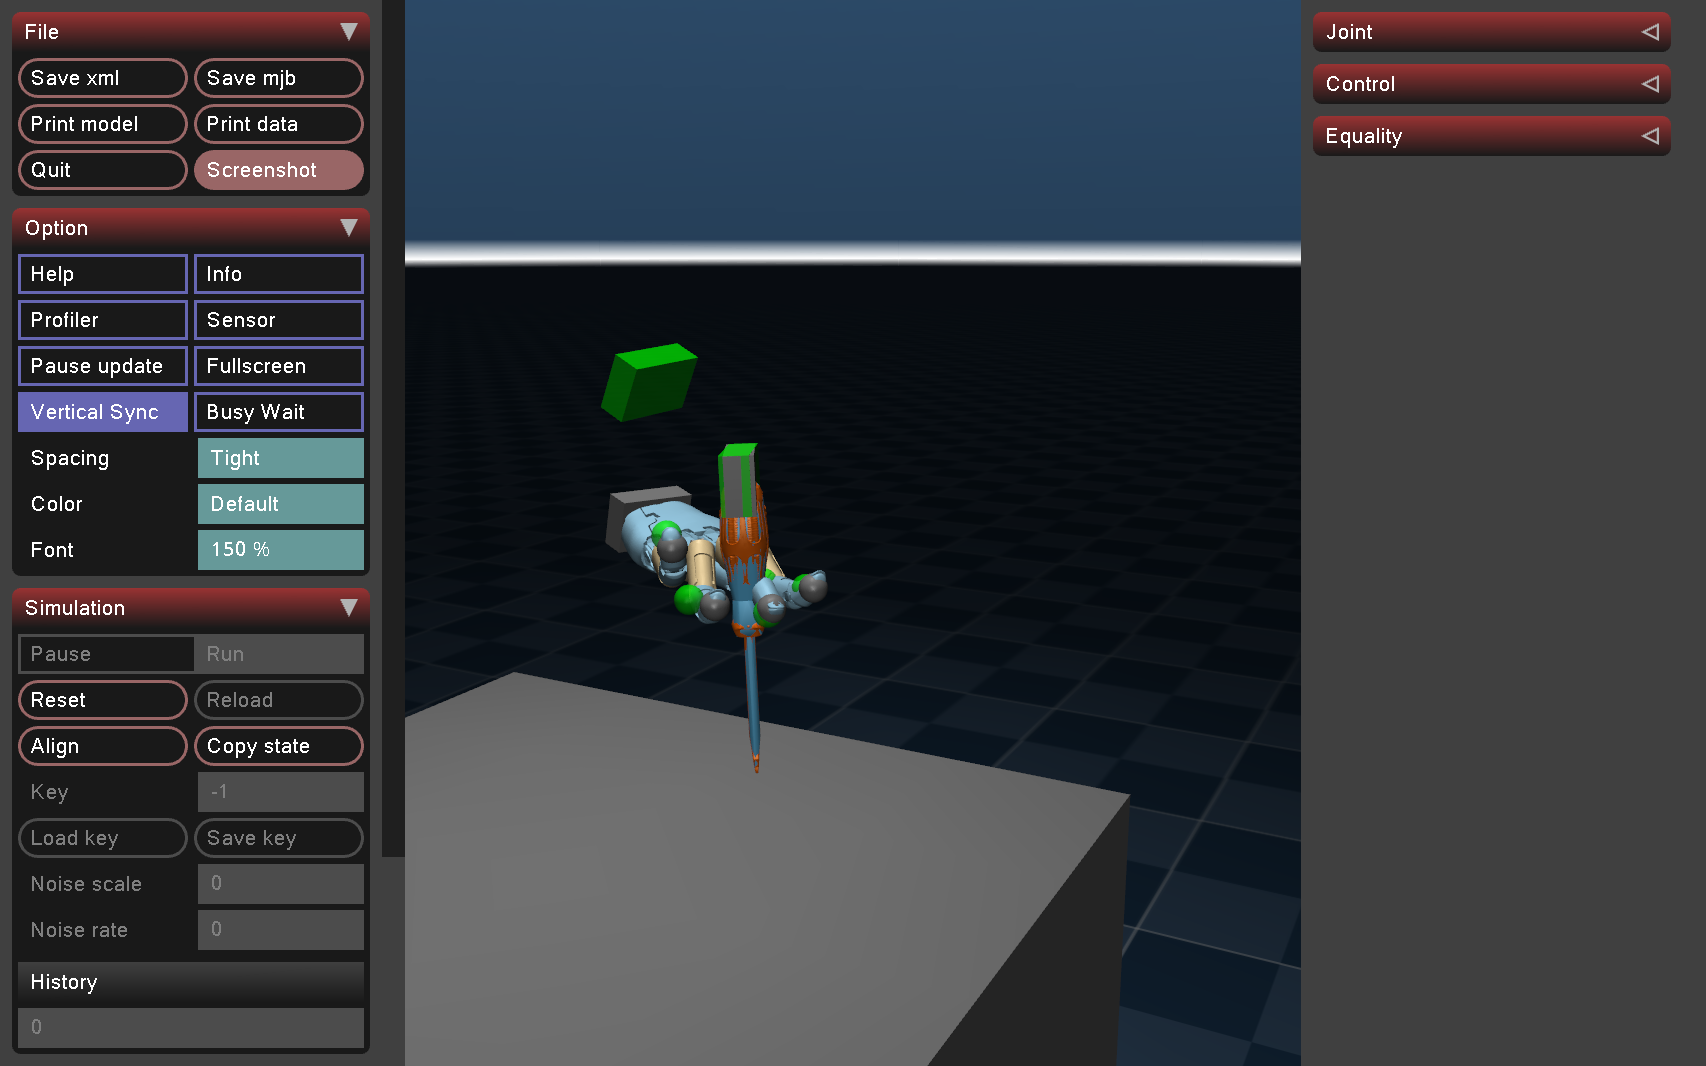
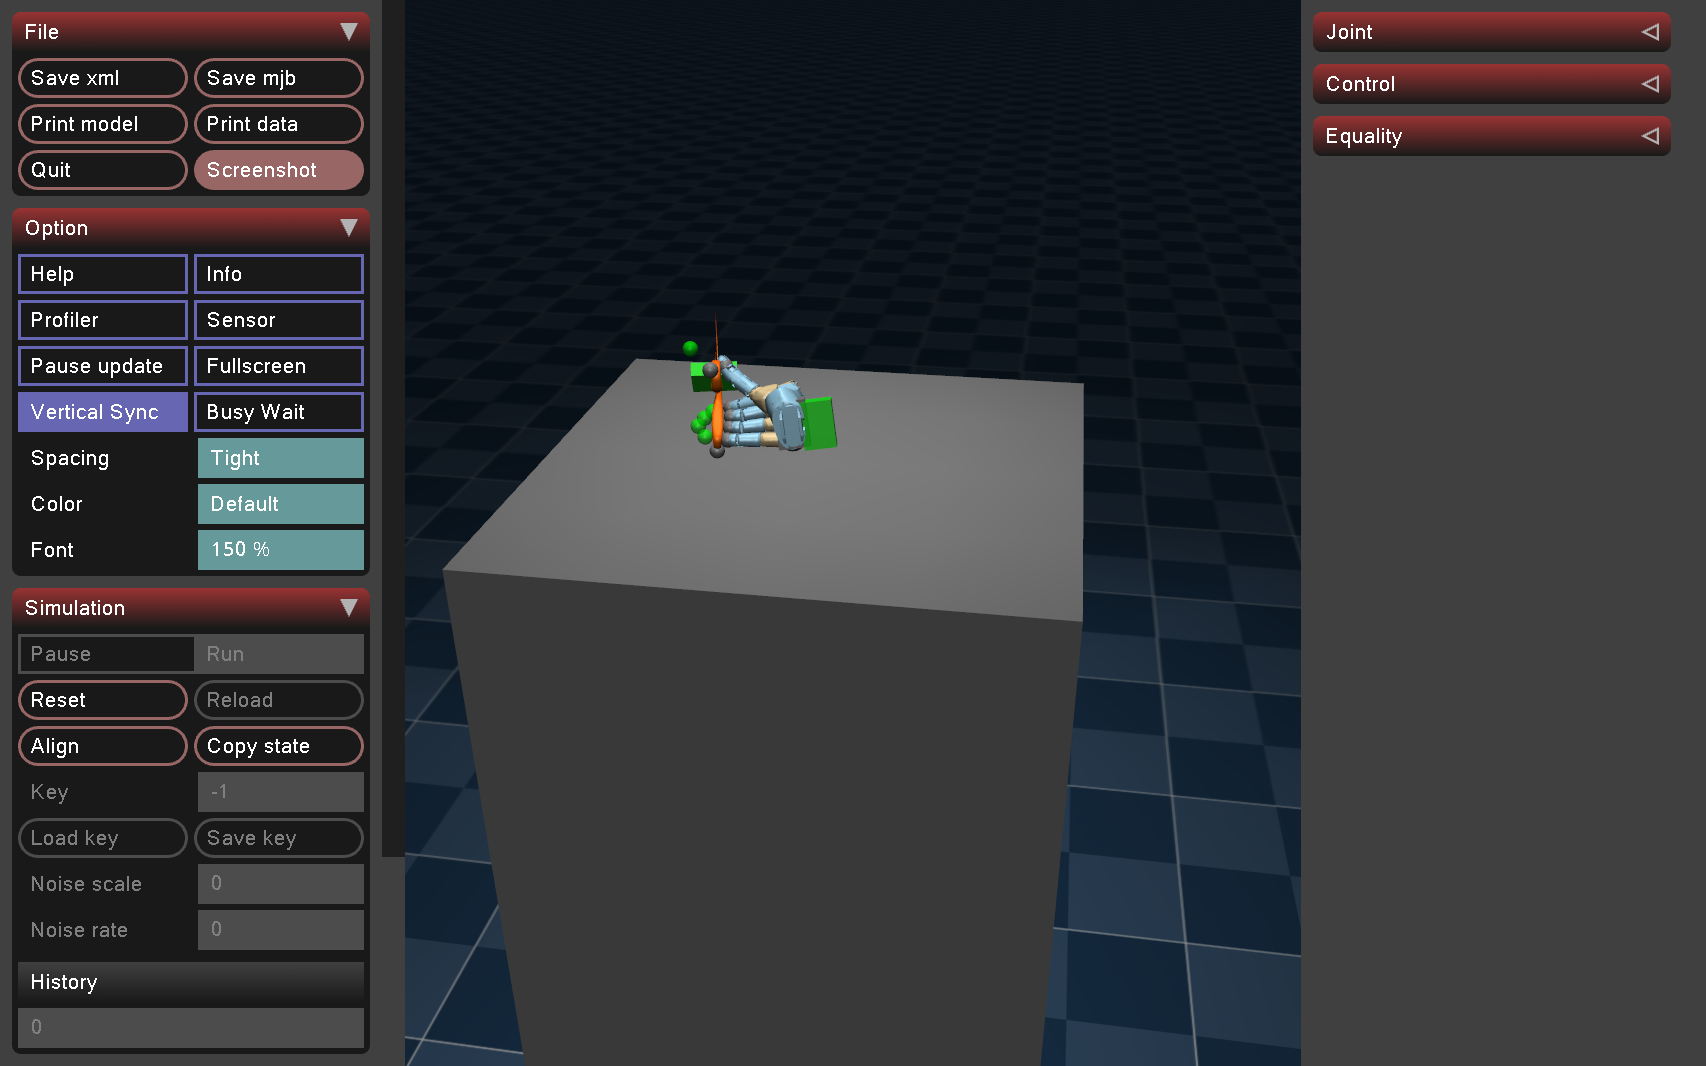
Update MJWP processing and example datasets

diff --git a/spider/preprocess/ik_mink.py b/spider/preprocess/ik_mink.py
@@ -331,6 +331,9 @@ def main(
     max_joint_velocity: float = 8.0,
     ik_substeps_per_frame: int = 20,
     visualization_fps: int = 120,
+    articulated: bool = False,
+    articulated_joint_name: str = "scissors_joint",
+    articulated_body_name: str = "bottom",
 ):
     # resolved processed directories
     dataset_dir = os.path.abspath(dataset_dir)
@@ -364,6 +367,15 @@ def main(
     qpos_wrist_left = loaded_data["qpos_wrist_left"][start_idx:end_idx]
     qpos_obj_right = loaded_data["qpos_obj_right"][start_idx:end_idx]
     qpos_obj_left = loaded_data["qpos_obj_left"][start_idx:end_idx]
+    obj_arti = None
+    if articulated:
+        if "obj_arti" not in loaded_data:
+            raise ValueError(
+                "articulated=True requires `obj_arti` in trajectory_keypoints.npz"
+            )
+        obj_arti = loaded_data["obj_arti"][start_idx:end_idx]
+        if obj_arti.ndim == 1:
+            obj_arti = obj_arti[:, None]
     try:
         contact_left = loaded_data["contact_left"][start_idx:end_idx]
         contact_right = loaded_data["contact_right"][start_idx:end_idx]
@@ -575,6 +587,21 @@ def main(
         mj_model_ik,
         posture_cost=posture_cost,
     )
+    articulated_qadr = None
+    if articulated:
+        articulated_jid = mujoco.mj_name2id(
+            mj_model_ik,
+            mujoco.mjtObj.mjOBJ_JOINT,
+            articulated_joint_name,
+        )
+        if articulated_jid == -1:
+            raise ValueError(
+                f"Could not find articulated joint `{articulated_joint_name}`"
+            )
+        articulated_qadr = mj_model_ik.jnt_qposadr[articulated_jid]
+    nq_obj = 14 if embodiment_type == "bimanual" else 7
+    if articulated:
+        nq_obj += obj_arti.shape[1]
 
     # update index_map
     for target_mocap_body in target_mocap_bodies:
@@ -591,11 +618,20 @@ def main(
         mj_data_ik.qpos[-14:-7] = qpos_obj_right[0]
         mj_data_ik.qpos[-7:] = qpos_obj_left[0]
     elif embodiment_type == "right":
-        j_obj = mujoco.mj_name2id(mj_model, mujoco.mjtObj.mjOBJ_BODY, "bottom_visual")
+        body_name = articulated_body_name if articulated else "bottom_visual"
+        j_obj = mujoco.mj_name2id(mj_model, mujoco.mjtObj.mjOBJ_BODY, body_name)
+        if j_obj == -1 and not articulated:
+            j_obj = mujoco.mj_name2id(mj_model, mujoco.mjtObj.mjOBJ_BODY, "bottom")
+        if j_obj == -1:
+            raise ValueError(f"Could not find object body `{body_name}`")
         jnt_adr = mj_model.body_jntadr[j_obj]
         mj_data_ik.qpos[jnt_adr:jnt_adr+7] = qpos_obj_right[0]
     elif embodiment_type == "left":
         mj_data_ik.qpos[-7:] = qpos_obj_left[0]
+    if articulated:
+        mj_data_ik.qpos[
+            articulated_qadr : articulated_qadr + obj_arti.shape[1]
+        ] = obj_arti[0]
     configuration.update(mj_data_ik.qpos)
     posture_task.set_target(configuration.q)
 
@@ -653,11 +689,13 @@ def main(
             if cnt == 0:
                 # reset distance cost
                 cost_sum = 0.0
-                nq_obj = 14 if embodiment_type == "bimanual" else 7
                 set_mink_targets(mink_tasks, index_map, qpos_ref, cnt)
                 posture_task.set_target(configuration.q.copy())
                 task_list = list(mink_tasks.values()) + [posture_task]
-                init_steps = max(ik_substeps_per_frame, max(1, max_num_initial_guess) * 10)
+                init_steps = max(
+                    ik_substeps_per_frame,
+                    max(1, max_num_initial_guess) * 10,
+                )
                 for _ in range(init_steps):
                     vel = solve_mink_velocity(configuration, task_list, sim_dt)
                     vel = clip_joint_velocity(
@@ -666,6 +704,11 @@ def main(
                         max_joint_velocity=max_joint_velocity,
                     )
                     configuration.integrate_inplace(vel, sim_dt)
+                    if articulated:
+                        mj_data_ik.qpos[
+                            articulated_qadr : articulated_qadr + obj_arti.shape[1]
+                        ] = obj_arti[cnt]
+                        configuration.update(mj_data_ik.qpos)
                     mj_data_ik.qvel[:] = vel
                 mj_data_ik.qvel[:] = 0.0
                 qpos_list = []
@@ -695,13 +738,21 @@ def main(
                     max_joint_velocity=max_joint_velocity,
                 )
                 configuration.integrate_inplace(vel, ik_dt)
+                if articulated:
+                    mj_data_ik.qpos[
+                        articulated_qadr : articulated_qadr + obj_arti.shape[1]
+                    ] = obj_arti[cnt]
+                    configuration.update(mj_data_ik.qpos)
                 mj_data_ik.qvel[:] = vel
             mujoco.mj_forward(mj_model_ik, mj_data_ik)
 
             # set site position and set it to ref mocap position (use original mj_model and mj_data)
             mj_data.qpos[:] = mj_data_ik.qpos.copy()
+            if articulated:
+                mj_data.qpos[
+                    articulated_qadr : articulated_qadr + obj_arti.shape[1]
+                ] = obj_arti[cnt]
             mj_data.qvel[:] = 0.0
-            nq_obj = 14 if embodiment_type == "bimanual" else 7
             mj_data.ctrl[:] = mj_data_ik.qpos[:-nq_obj].copy()
 
             # override joint position according to contact state

diff --git a/spider/process_datasets/arctic.py b/spider/process_datasets/arctic.py
@@ -168,13 +168,13 @@ def main(
         mj_spec.add_mesh(
             name="scissors_top",
             file=top_mesh_path,
-            scale=[0.002, 0.002, 0.002],
+            scale=[0.001, 0.001, 0.001],
         )
 
         mj_spec.add_mesh(
             name="scissors_bottom",
             file=bottom_mesh_path,
-            scale=[0.002, 0.002, 0.002],
+            scale=[0.001, 0.001, 0.001],
         )
 
         scissors_root = object_right_handle.add_body(
